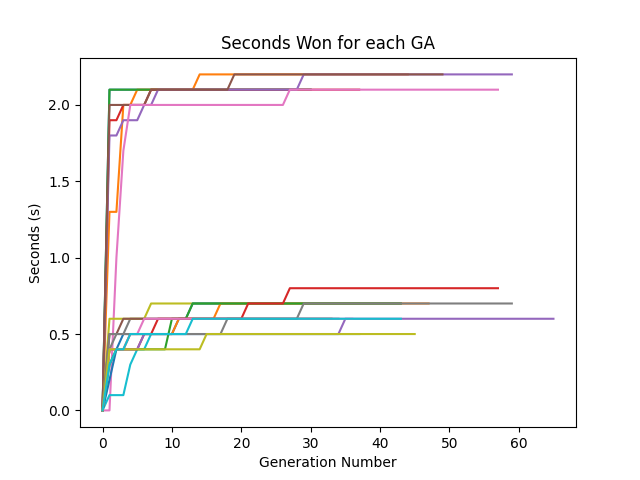
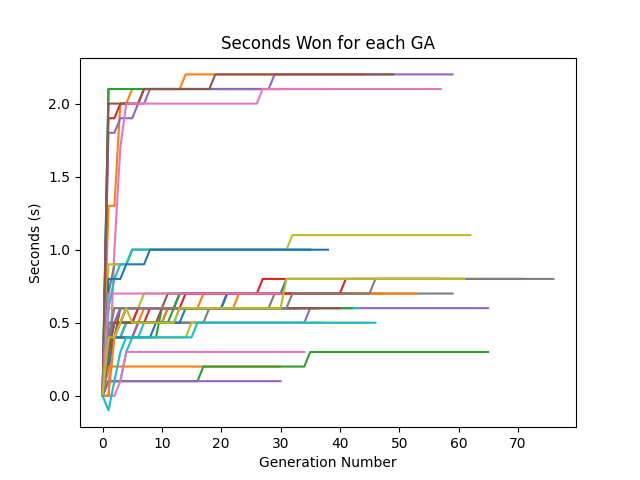
wip

diff --git a/model.py b/model.py
@@ -11,11 +11,11 @@ class AlexNetAtHome(nn.Module):
     def __init__(self):
         super(AlexNetAtHome, self).__init__()
 
-        firstLayerSize = 64
-        secondLayerSize = 120
-        thirdLayerSize = 180
-        fourthLayerSize = 180
-        fifthLayerSize = 120
+        firstLayerSize = 100
+        secondLayerSize = 180
+        thirdLayerSize = 220
+        fourthLayerSize = 220
+        fifthLayerSize = 180
         # Calculate the input size of the predictor layer, this is the size of the last layer of the features flattenend
         predictorInputSize = 4320
 
@@ -43,16 +43,16 @@ class AlexNetAtHome(nn.Module):
         )
         self.predictor = nn.Sequential(
             nn.Dropout(0.5),
-            nn.Linear(predictorInputSize, 500),
+            nn.Linear(predictorInputSize, 1000),
             nn.ReLU(),
             nn.Dropout(0.5),
-            nn.Linear(500, 350),
+            nn.Linear(1000, 650),
             nn.ReLU(),
             nn.Dropout(0.5),
-            nn.Linear(350, 200),
+            nn.Linear(650, 350),
             nn.ReLU(),
             nn.Dropout(0.5),
-            nn.Linear(200, 100),
+            nn.Linear(350, 100),
             nn.ReLU(),
             nn.Dropout(0.5),
             nn.Linear(100, 4),

diff --git a/rallyrobopilot/inference.py b/rallyrobopilot/inference.py
@@ -13,7 +13,7 @@ device = torch.device("cuda:0" if torch.cuda.is_available() else "cpu")
 
 print("Device is : ", device)
 
-MODEL_NUMBER = 5
+MODEL_NUMBER = 6
 if len(sys.argv) > 1:
     MODEL_NUMBER = int(sys.argv[1])
 
@@ -25,7 +25,7 @@ lastPic = None
 
 model = model.to(device)
 
-CURRENT_COLOR = np.array([0,255,255])
+CURRENT_COLOR = np.array([0,0,255])
 
 model.eval()
 

diff --git a/rallyrobopilot/training.py b/rallyrobopilot/training.py
@@ -59,7 +59,7 @@ for f in [(TRAIN_FOLDER, train_files), (TEST_FOLDER, test_files)]:
         curr_path = f"{f[0]}/{fi}"
         if os.path.isfile(curr_path):
             f[1].append(curr_path)
-            
+            break
 
 print(f"Loading {train_files} for training")
 print(f"Loading {test_files} for testing")

diff --git a/GA/statsGA.py b/GA/statsGA.py
@@ -98,7 +98,7 @@ def getDifferenceOfImprovement(minRange, maxRange):
     plt.ylabel("Seconds (s)") 
     plt.savefig(filename)
     plt.close()  
-getDifferenceOfImprovement(80,100)
+getDifferenceOfImprovement(80,120)
 
 for f in [f"ga_{i}" for i in range(75, 146)]:
     stat = StatsGA(f, "simple_track")
